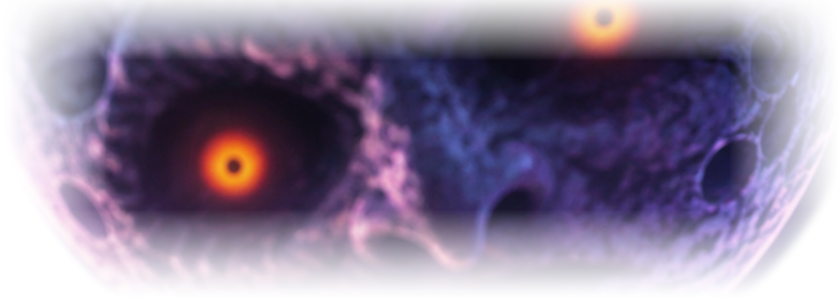
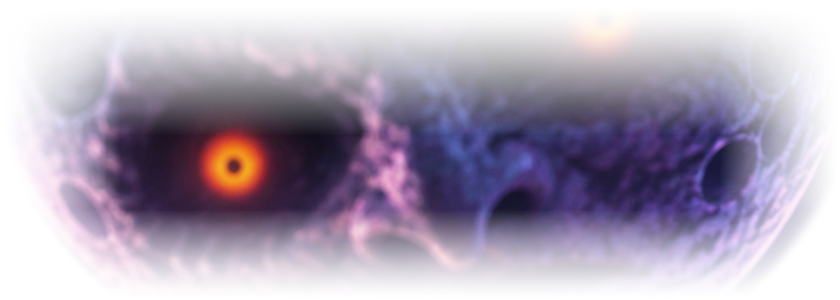
Opening: softer top edge on the moon and tighter eye light
Claude-Session: https://claude.ai/code/session_01SndjvH2yjw7a3Zb2fhqrEB

diff --git a/Android/app/src/main/java/com/dishii/mm/IntroPlayer.java b/Android/app/src/main/java/com/dishii/mm/IntroPlayer.java
@@ -564,7 +564,7 @@ final class IntroPlayer implements TextureView.SurfaceTextureListener {
             float pulse = 0.72f + 0.28f * (float) Math.sin(t * Math.PI * 2 * 1.6f);
             // The moon fills most of the width, drifting closer the whole time.
             float zoom = 1f + 0.06f * clamp01(t / TOTAL);
-            float scale = Math.min(w * 0.96f / bitmap.getWidth(), h * 0.9f / bitmap.getHeight()) * zoom;
+            float scale = Math.min(w * 0.84f / bitmap.getWidth(), h * 0.8f / bitmap.getHeight()) * zoom;
             float bw = bitmap.getWidth() * scale, bh = bitmap.getHeight() * scale;
             float x0 = (w - bw) / 2, y0 = (h - bh) / 2;
             // A violet haze behind the moon.
@@ -579,10 +579,10 @@ final class IntroPlayer implements TextureView.SurfaceTextureListener {
             float g = eyes * pulse;
             for (float[] e : EYES) {
                 float ex = x0 + e[0] * scale, ey = y0 + e[1] * scale;
-                float r = bh * 0.5f;
-                radial(c, ex, ey, r * 1.6f, argb(0.35f * g, 170, 60, 255), argb(0.18f * g, 110, 30, 200)); // violet
+                float r = bh * 0.3f;
+                radial(c, ex, ey, r * 1.8f, argb(0.35f * g, 170, 60, 255), argb(0.18f * g, 110, 30, 200)); // violet
                 radial(c, ex, ey, r, argb(0.85f * g, 255, 40, 20), argb(0.45f * g, 200, 0, 0));            // red
-                radial(c, ex, ey, r * 0.22f, argb(0.95f * g, 255, 210, 150), argb(0.7f * g, 255, 90, 30)); // core
+                radial(c, ex, ey, r * 0.18f, argb(0.95f * g, 255, 210, 150), argb(0.7f * g, 255, 90, 30)); // core
             }
         }
     }

diff --git a/mm/2s2h/Enhancements/TitleMenu/IntroVideo.cpp b/mm/2s2h/Enhancements/TitleMenu/IntroVideo.cpp
@@ -346,7 +346,7 @@ void DrawMoon(ImDrawList* dl, ImVec2 pos, ImVec2 size) {
     float eyes = Smooth((t - 1.0f) / 0.8f) * (1.0f - Smooth((t - 2.8f) / 0.9f));
     float pulse = 0.72f + 0.28f * std::sin(t * 3.14159265f * 2.0f * 1.6f);
     float zoom = 1.0f + 0.06f * std::clamp(t / kMoonTotal, 0.0f, 1.0f);
-    float k = std::min(size.x * 0.96f / sMoon.w, size.y * 0.9f / sMoon.h) * zoom;
+    float k = std::min(size.x * 0.84f / sMoon.w, size.y * 0.8f / sMoon.h) * zoom;
     ImVec2 s(sMoon.w * k, sMoon.h * k);
     ImVec2 p0(pos.x + (size.x - s.x) / 2, pos.y + (size.y - s.y) / 2);
     ImVec2 mid(pos.x + size.x / 2, pos.y + size.y / 2);
@@ -359,10 +359,10 @@ void DrawMoon(ImDrawList* dl, ImVec2 pos, ImVec2 size) {
     }
     for (const ImVec2& e : kEyes) {
         ImVec2 c(p0.x + e.x * k, p0.y + e.y * k);
-        float r = s.y * 0.5f;
-        Light(dl, c, r * 1.6f, 160, 55, 255, 0.35f * g); // violet
+        float r = s.y * 0.3f;
+        Light(dl, c, r * 1.8f, 160, 55, 255, 0.35f * g); // violet
         Light(dl, c, r, 255, 35, 15, 0.8f * g);          // red
-        Light(dl, c, r * 0.22f, 255, 200, 140, 0.9f * g); // the burning middle
+        Light(dl, c, r * 0.18f, 255, 200, 140, 0.9f * g); // the burning middle
     }
 }
 
